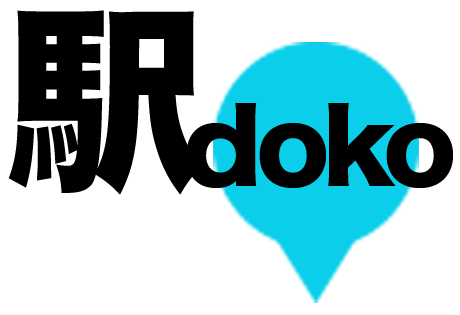
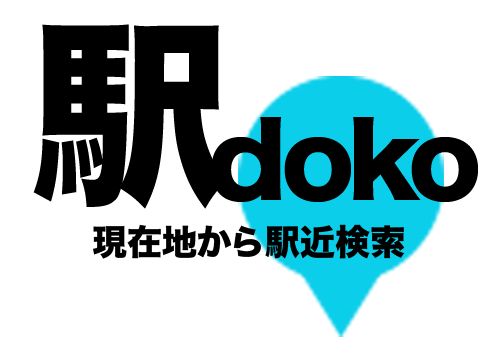
html 一旦終了

diff --git a/app/views/html_test/style.css b/app/views/html_test/style.css
@@ -102,7 +102,7 @@ nav li img{
 h1{
 	width: 250px;
 	margin: 0 auto;
-	margin-top: 170px;
+	margin-top: 120px;
 }
 
 h1:first-letter{
@@ -116,6 +116,26 @@ h1:first-letter{
 	padding:.4em .5em;
 	border-top:dotted 1px #17A4E5;
 	font-size:15px;
+}
+
+.btn_next {
+	padding: 10px;
+	margin-top: 20px;
+	background-color: #0bceea;
+	border-radius: 10px;
+	width: 100px;
+	text-align: center;
+	margin: 20px auto;
+}
+.btn_next a {
+	font-size: 16px;
+	font-weight: bold;;
+	margin-top: 20px;
+	background-color: #0bceea;
+	border-radius: 10px;
+	width: 100px;
+	text-align: center;
+	color: #fff;
 }
 
 /*-- 広告 --*/

diff --git a/app/views/html_test/index.html b/app/views/html_test/index.html
@@ -60,6 +60,7 @@ $(function(){
 	</div><!-- /メニューここまで -->
 
 	<h1><img src="img/title.png" alt="駅doko" width="250"></h1>
+	<p class="btn_next"><a href="map01.html">検索GO</a></p>
 
 </header><!-- /ヘッダここまで -->
 
